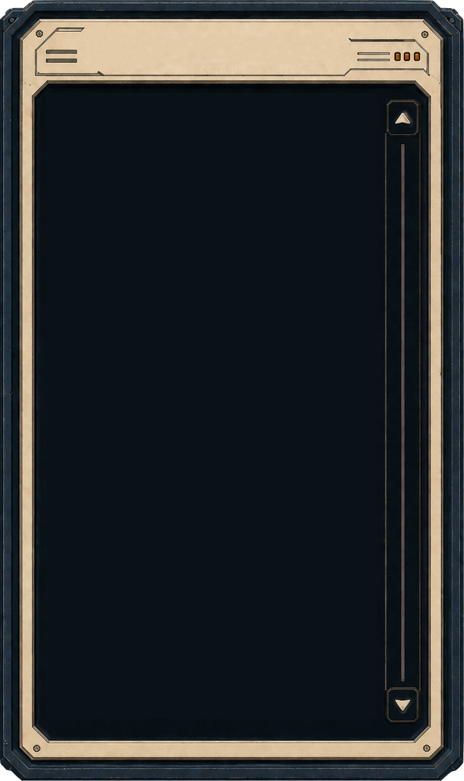
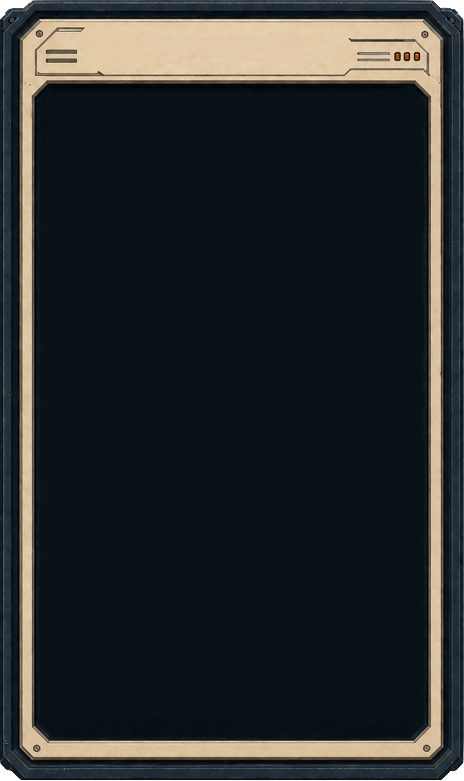
Tune assignment cargo slot list

Changed region(s): [[0.8147, 0.1229, 0.9052, 0.9219]]

diff --git a/state_of_game.md b/state_of_game.md
@@ -110,6 +110,7 @@ Assignment:
 - Material buttons and their assigned-unit labels are hand-placeable in the 2D editor.
 - Center: moonbase needs and manually placeable cargo hold panel.
 - Right panel: available cargo groups use fixed, editor-placeable icon slots with no runtime text.
+- Assignment cargo group icons are centered inside their slot rectangles; slot rectangles can be hand-placed and the list scrolls from their positions.
 - ASCII piece previews have been removed from the visible list.
 - Reset/confirm buttons live under the center cargo hold panel.
 